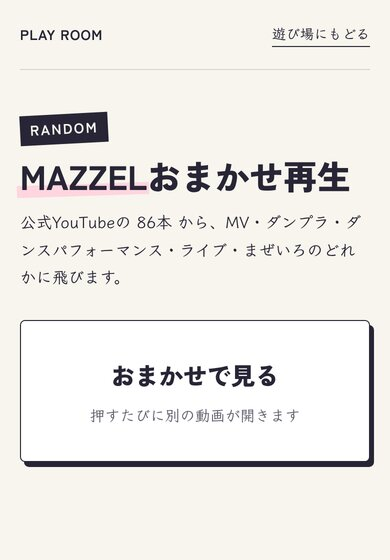
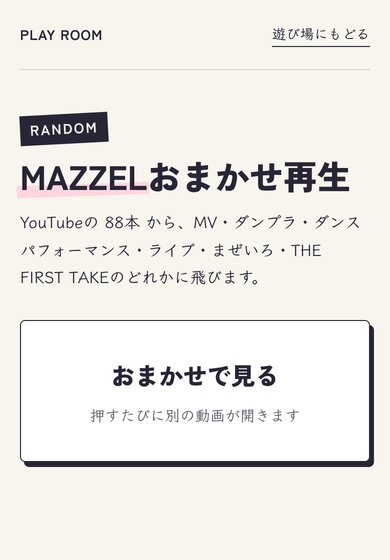
おまかせ再生: THE FIRST TAKEのOnly YouとGet Up And Danceを追加
Claude-Session: https://claude.ai/code/session_01Tkh1uTptcX9yYh5KQbX8tZ

Changed region(s): [[0.0615, 0.3643, 0.9231, 0.4554], [0.0308, 0.4857, 0.6462, 0.5161]]

diff --git a/mazzel/index.html b/mazzel/index.html
@@ -4,11 +4,11 @@
 <meta charset="utf-8">
 <meta name="viewport" content="width=device-width, initial-scale=1">
 <title>MAZZELおまかせ再生｜PLAY ROOM</title>
-<meta name="description" content="押すたびにMAZZELのMV・ダンプラ・ダンスパフォーマンス・ライブ・まぜいろ映像のどれかへ。PLAY ROOMのおまかせ再生。">
+<meta name="description" content="押すたびにMAZZELのMV・ダンプラ・ダンスパフォーマンス・ライブ・まぜいろ・THE FIRST TAKE映像のどれかへ。PLAY ROOMのおまかせ再生。">
 <meta property="og:type" content="website">
 <meta property="og:site_name" content="PLAY ROOM">
 <meta property="og:title" content="MAZZELおまかせ再生｜PLAY ROOM">
-<meta property="og:description" content="押すたびにMAZZELのMV・ダンプラ・ダンスパフォーマンス・ライブ・まぜいろ映像のどれかへ。">
+<meta property="og:description" content="押すたびにMAZZELのMV・ダンプラ・ダンスパフォーマンス・ライブ・まぜいろ・THE FIRST TAKE映像のどれかへ。">
 <meta property="og:url" content="https://playroom-lab.github.io/play-room/mazzel/">
 <meta name="twitter:card" content="summary">
 <meta name="robots" content="noindex">
@@ -56,13 +56,13 @@ padding:34px 24px;text-align:center;transition:transform .18s ease,box-shadow .1
 <nav class="nav"><span class="brand">PLAY ROOM</span><a class="back" href="../">遊び場にもどる</a></nav>
 <p class="label">RANDOM</p>
 <h1><span>MAZZEL</span>おまかせ再生</h1>
-<p class="note">公式YouTubeの <span id="count"></span> から、MV・ダンプラ・ダンスパフォーマンス・ライブ・まぜいろのどれかに飛びます。</p>
+<p class="note">YouTubeの <span id="count"></span> から、MV・ダンプラ・ダンスパフォーマンス・ライブ・まぜいろ・THE FIRST TAKEのどれかに飛びます。</p>
 <a class="go" id="go" href="https://www.youtube.com/@MAZZEL_official" target="_blank" rel="noopener">
 <strong>おまかせで見る</strong><small>押すたびに別の動画が開きます</small></a>
 </div>
 <script>
 {
-const V=[["Touch", "DN5JpXHDrLk", "MV", "Music Video"], ["So Strawberry", "76lNhpUKrEc", "MV", "Music Video"], ["Get Up And Dance", "Nw3eh9LurOM", "MV", "Music Video"], ["BANQUET BANG", "KmWhrWESKPU", "MV", "Music Video"], ["Only You", "pVLkSsnde9U", "MV", "Music Video"], ["DANGER", "AUhNm_ZR0L0", "MV", "Music Video"], ["King Kila Game", "jUlAbq1lfdo", "MV", "Music Video"], ["J.O.K.E.R.", "HLTMBZ6bZTA", "MV", "Music Video"], ["MAZQUERADE", "Q5LtRzAYJ_c", "MV", "Music Video"], ["Seaside Story", "rooVEy0Qo-0", "MV", "Music Video"], ["Counterattack", "gmTaYQlWn_I", "MV", "Music Video"], ["ICE feat. REIKO", "MgyCerb44lI", "MV", "Music Video"], ["Parade", "SuLNr2WlOK4", "MV", "Music Video"], ["Waterfall", "ectqcx3hnTI", "MV", "Music Video"], ["Carnival", "lIYPx6fTf8I", "MV", "Music Video"], ["Vivid", "oT_f2l3RScU", "MV", "Music Video"], ["MISSION", "LV2YZetiyHE", "MV", "Music Video"], ["Touch", "jDkc1MzHYG4", "ダンプラ", "Dance Practice"], ["So Strawberry", "s5N3o7KdnxA", "ダンプラ", "Dance Practice"], ["So Strawberry", "hNhGDMnfuR8", "ダンプラ", "Dance Performance Video"], ["The Voice", "IrGzenqeMxo", "ダンプラ", "Dance Performance Video"], ["Get Up And Dance", "ZUyKgkmdqa4", "ダンプラ", "Dance Practice"], ["BANQUET BANG", "lDyaplEIaHQ", "ダンプラ", "Dance Practice"], ["Only You", "dx4XsqUGm10", "ダンプラ", "Dance Practice"], ["Only You", "C8fRi3byOww", "ダンプラ", "Dance Performance"], ["DANGER", "yHhJsqtVGKg", "ダンプラ", "Dance Practice"], ["I'm yours, You're mine", "sFEkSY_dyMY", "ダンプラ", "Performance Video"], ["HERO SUIT", "UMknX5ZBoMM", "ダンプラ", "Performance Video"], ["to me", "6Ysau95qWyI", "ダンプラ", "Performance Video"], ["King Kila Game", "CHUgRqXSFqE", "ダンプラ", "Dance Practice"], ["J.O.K.E.R.", "Q3AzrhpWLZM", "ダンプラ", "Dance Practice"], ["MAZQUERADE", "QQGPnuKOQkE", "ダンプラ", "Dance Practice Moving ver."], ["MAZQUERADE", "icF7arAE9OQ", "ダンプラ", "Dance Practice Fix ver."], ["K&K", "g4UNun1zGyw", "ダンプラ", "Dance Practice"], ["Seaside Story", "S3C5ZedUAo4", "ダンプラ", "Dance Performance"], ["Counterattack", "uXI9uYWq8oc", "ダンプラ", "Dance Practice"], ["ICE feat. REIKO", "j5vpd2Y50No", "ダンプラ", "Dance Performance"], ["Parade", "d-fseqkcFh4", "ダンプラ", "Dance Practice Fix ver."], ["Parade", "Pmyrbbi2108", "ダンプラ", "Dance Practice Moving ver."], ["Waterfall", "YavEcqFbacs", "ダンプラ", "Dance Practice Fix ver."], ["Waterfall", "yR7vMuQwhWE", "ダンプラ", "Dance Practice Moving ver."], ["Fire", "6PAEczbmt2M", "ダンプラ", "Dance Performance Video"], ["Fire", "dlSb062mkVU", "ダンプラ", "Dance Performance Video Fix ver."], ["Carnival", "V8eF9VN2KUU", "ダンプラ", "Dance Practice Moving ver."], ["Carnival", "DIa_urittU8", "ダンプラ", "Dance Practice Fix ver."], ["Carnival", "Yj6LKQwY9ms", "ダンプラ", "Dance Performance"], ["LIGHTNING", "bAhRrmpQFHM", "ダンプラ", "Choreography Video Moving ver."], ["LIGHTNING", "PQeybPFZkXE", "ダンプラ", "Choreography Video Fix ver."], ["LIGHTNING", "8sQXnlMYzI4", "ダンプラ", "Dance Performance Video"], ["Vivid", "WloaFZjKJ7w", "ダンプラ", "Dance Practice Moving ver."], ["Vivid", "eEC0Ru3H8bo", "ダンプラ", "Dance Practice Fix ver."], ["Vivid", "wB0UjJjAp2U", "ダンプラ", "Dance Performance"], ["MISSION", "QtGxrnS5XBU", "ダンプラ", "Dance Practice Moving ver."], ["MISSION", "_VBbdqWF9Gc", "ダンプラ", "Dance Practice Fix ver."], ["So Strawberry", "B0-OaM9fmOs", "ライブ", "1st Arena Tour 2026"], ["Trap", "D-6zWGgatX8", "ライブ", "D.U.N.K. Showcase 2026"], ["J.O.K.E.R.", "Xay_gUI-Quw", "ライブ", "BMSG FES'25"], ["Holiday", "cMsKEJyR-xk", "ライブ", "2nd One Man Tour 2025"], ["Fantasy", "yVmZvKrL00w", "ライブ", "2nd One Man Tour 2025"], ["King Kila Game", "OYWifAyndsE", "ライブ", "2nd One Man Tour 2025"], ["DANGER", "LsG4PZe7fBQ", "ライブ", "2nd One Man Tour 2025"], ["Only You", "Y7pBD-U6-Pc", "ライブ", "Special Live Performance"], ["Vivid", "UYEmJFV0Urc", "ライブ", "VIVA LA ROCK 2025"], ["MISSION", "fNCfV6t8qL8", "ライブ", "One Man Tour 2024"], ["Parade", "eSc2iIH-wVU", "ライブ", "One Man Tour 2024"], ["Get Down", "tO0iiinmrTg", "ライブ", "One Man Tour 2024"], ["K&K", "sFTrDl-a7LQ", "ライブ", "One Man Tour 2024"], ["ICE", "rPCVKK4PpQ0", "ライブ", "One Man Tour 2024"], ["Waterfall", "hldEiAn8Xk4", "ライブ", "One Man Tour 2024"], ["Seaside Story", "0GAKiobewjI", "ライブ", "One Man Tour 2024"], ["Counterattack", "qIZJraMmF3Q", "ライブ", "BMSG FES'24"], ["Fire", "9EOjctmVWYs", "ライブ", "D.U.N.K. Showcase 京セラドーム大阪"], ["Holiday", "9G6h1tK8cuY", "ライブ", "SHOWCASE \"Carnival\""], ["Get Down", "bh4yNRRD6YU", "ライブ", "1st Fan Meeting"], ["CAME TO DANCE", "bGpM_S1KWug", "ライブ", "1st Fan Meeting"], ["Carnival", "XFNqvCJ_FJ8", "ライブ", "BMSG FES'23"], ["Vivid", "bFjEO_otDq8", "ライブ", "DEBUT SHOWCASE \"Vivid\""], ["Start of Something New (Cover)", "L0SUkz7p3mQ", "まぜいろ", "HAYATO"], ["虹 (Cover)", "BQh7Y6z_r08", "まぜいろ", "EIKI"], ["First Love (Cover)", "jB_Wxgd9p6c", "まぜいろ", "KAIRYU"], ["Fallin", "AKVUTWqNG0c", "まぜいろ", "TAKUTO"], ["SEITO × TSUKKI Collaboration", "aYoS5mxtMfk", "まぜいろ", "SEITO"], ["NAOYA filmed by 蜷川実花", "d3AVCaCZKys", "まぜいろ", "NAOYA"], ["20 years", "SUmOzSGdbCc", "まぜいろ", "RYUKI"], ["Nameless MythS (MAZZEL × STARGLOW)", "nn2V3mptPLg", "MV", "Music Video"], ["IPPA (前川一派)", "9tkw9U8JKa0", "MV", "Music Video"]];
+const V=[["Touch", "DN5JpXHDrLk", "MV", "Music Video"], ["So Strawberry", "76lNhpUKrEc", "MV", "Music Video"], ["Get Up And Dance", "Nw3eh9LurOM", "MV", "Music Video"], ["BANQUET BANG", "KmWhrWESKPU", "MV", "Music Video"], ["Only You", "pVLkSsnde9U", "MV", "Music Video"], ["DANGER", "AUhNm_ZR0L0", "MV", "Music Video"], ["King Kila Game", "jUlAbq1lfdo", "MV", "Music Video"], ["J.O.K.E.R.", "HLTMBZ6bZTA", "MV", "Music Video"], ["MAZQUERADE", "Q5LtRzAYJ_c", "MV", "Music Video"], ["Seaside Story", "rooVEy0Qo-0", "MV", "Music Video"], ["Counterattack", "gmTaYQlWn_I", "MV", "Music Video"], ["ICE feat. REIKO", "MgyCerb44lI", "MV", "Music Video"], ["Parade", "SuLNr2WlOK4", "MV", "Music Video"], ["Waterfall", "ectqcx3hnTI", "MV", "Music Video"], ["Carnival", "lIYPx6fTf8I", "MV", "Music Video"], ["Vivid", "oT_f2l3RScU", "MV", "Music Video"], ["MISSION", "LV2YZetiyHE", "MV", "Music Video"], ["Touch", "jDkc1MzHYG4", "ダンプラ", "Dance Practice"], ["So Strawberry", "s5N3o7KdnxA", "ダンプラ", "Dance Practice"], ["So Strawberry", "hNhGDMnfuR8", "ダンプラ", "Dance Performance Video"], ["The Voice", "IrGzenqeMxo", "ダンプラ", "Dance Performance Video"], ["Get Up And Dance", "ZUyKgkmdqa4", "ダンプラ", "Dance Practice"], ["BANQUET BANG", "lDyaplEIaHQ", "ダンプラ", "Dance Practice"], ["Only You", "dx4XsqUGm10", "ダンプラ", "Dance Practice"], ["Only You", "C8fRi3byOww", "ダンプラ", "Dance Performance"], ["DANGER", "yHhJsqtVGKg", "ダンプラ", "Dance Practice"], ["I'm yours, You're mine", "sFEkSY_dyMY", "ダンプラ", "Performance Video"], ["HERO SUIT", "UMknX5ZBoMM", "ダンプラ", "Performance Video"], ["to me", "6Ysau95qWyI", "ダンプラ", "Performance Video"], ["King Kila Game", "CHUgRqXSFqE", "ダンプラ", "Dance Practice"], ["J.O.K.E.R.", "Q3AzrhpWLZM", "ダンプラ", "Dance Practice"], ["MAZQUERADE", "QQGPnuKOQkE", "ダンプラ", "Dance Practice Moving ver."], ["MAZQUERADE", "icF7arAE9OQ", "ダンプラ", "Dance Practice Fix ver."], ["K&K", "g4UNun1zGyw", "ダンプラ", "Dance Practice"], ["Seaside Story", "S3C5ZedUAo4", "ダンプラ", "Dance Performance"], ["Counterattack", "uXI9uYWq8oc", "ダンプラ", "Dance Practice"], ["ICE feat. REIKO", "j5vpd2Y50No", "ダンプラ", "Dance Performance"], ["Parade", "d-fseqkcFh4", "ダンプラ", "Dance Practice Fix ver."], ["Parade", "Pmyrbbi2108", "ダンプラ", "Dance Practice Moving ver."], ["Waterfall", "YavEcqFbacs", "ダンプラ", "Dance Practice Fix ver."], ["Waterfall", "yR7vMuQwhWE", "ダンプラ", "Dance Practice Moving ver."], ["Fire", "6PAEczbmt2M", "ダンプラ", "Dance Performance Video"], ["Fire", "dlSb062mkVU", "ダンプラ", "Dance Performance Video Fix ver."], ["Carnival", "V8eF9VN2KUU", "ダンプラ", "Dance Practice Moving ver."], ["Carnival", "DIa_urittU8", "ダンプラ", "Dance Practice Fix ver."], ["Carnival", "Yj6LKQwY9ms", "ダンプラ", "Dance Performance"], ["LIGHTNING", "bAhRrmpQFHM", "ダンプラ", "Choreography Video Moving ver."], ["LIGHTNING", "PQeybPFZkXE", "ダンプラ", "Choreography Video Fix ver."], ["LIGHTNING", "8sQXnlMYzI4", "ダンプラ", "Dance Performance Video"], ["Vivid", "WloaFZjKJ7w", "ダンプラ", "Dance Practice Moving ver."], ["Vivid", "eEC0Ru3H8bo", "ダンプラ", "Dance Practice Fix ver."], ["Vivid", "wB0UjJjAp2U", "ダンプラ", "Dance Performance"], ["MISSION", "QtGxrnS5XBU", "ダンプラ", "Dance Practice Moving ver."], ["MISSION", "_VBbdqWF9Gc", "ダンプラ", "Dance Practice Fix ver."], ["So Strawberry", "B0-OaM9fmOs", "ライブ", "1st Arena Tour 2026"], ["Trap", "D-6zWGgatX8", "ライブ", "D.U.N.K. Showcase 2026"], ["J.O.K.E.R.", "Xay_gUI-Quw", "ライブ", "BMSG FES'25"], ["Holiday", "cMsKEJyR-xk", "ライブ", "2nd One Man Tour 2025"], ["Fantasy", "yVmZvKrL00w", "ライブ", "2nd One Man Tour 2025"], ["King Kila Game", "OYWifAyndsE", "ライブ", "2nd One Man Tour 2025"], ["DANGER", "LsG4PZe7fBQ", "ライブ", "2nd One Man Tour 2025"], ["Only You", "Y7pBD-U6-Pc", "ライブ", "Special Live Performance"], ["Vivid", "UYEmJFV0Urc", "ライブ", "VIVA LA ROCK 2025"], ["MISSION", "fNCfV6t8qL8", "ライブ", "One Man Tour 2024"], ["Parade", "eSc2iIH-wVU", "ライブ", "One Man Tour 2024"], ["Get Down", "tO0iiinmrTg", "ライブ", "One Man Tour 2024"], ["K&K", "sFTrDl-a7LQ", "ライブ", "One Man Tour 2024"], ["ICE", "rPCVKK4PpQ0", "ライブ", "One Man Tour 2024"], ["Waterfall", "hldEiAn8Xk4", "ライブ", "One Man Tour 2024"], ["Seaside Story", "0GAKiobewjI", "ライブ", "One Man Tour 2024"], ["Counterattack", "qIZJraMmF3Q", "ライブ", "BMSG FES'24"], ["Fire", "9EOjctmVWYs", "ライブ", "D.U.N.K. Showcase 京セラドーム大阪"], ["Holiday", "9G6h1tK8cuY", "ライブ", "SHOWCASE \"Carnival\""], ["Get Down", "bh4yNRRD6YU", "ライブ", "1st Fan Meeting"], ["CAME TO DANCE", "bGpM_S1KWug", "ライブ", "1st Fan Meeting"], ["Carnival", "XFNqvCJ_FJ8", "ライブ", "BMSG FES'23"], ["Vivid", "bFjEO_otDq8", "ライブ", "DEBUT SHOWCASE \"Vivid\""], ["Start of Something New (Cover)", "L0SUkz7p3mQ", "まぜいろ", "HAYATO"], ["虹 (Cover)", "BQh7Y6z_r08", "まぜいろ", "EIKI"], ["First Love (Cover)", "jB_Wxgd9p6c", "まぜいろ", "KAIRYU"], ["Fallin", "AKVUTWqNG0c", "まぜいろ", "TAKUTO"], ["SEITO × TSUKKI Collaboration", "aYoS5mxtMfk", "まぜいろ", "SEITO"], ["NAOYA filmed by 蜷川実花", "d3AVCaCZKys", "まぜいろ", "NAOYA"], ["20 years", "SUmOzSGdbCc", "まぜいろ", "RYUKI"], ["Nameless MythS (MAZZEL × STARGLOW)", "nn2V3mptPLg", "MV", "Music Video"], ["IPPA (前川一派)", "9tkw9U8JKa0", "MV", "Music Video"], ["Only You", "epdz8BeOR7I", "THE FIRST TAKE", "THE FIRST TAKE"], ["Get Up And Dance", "zGTqYHKPn3s", "THE FIRST TAKE", "THE FIRST TAKE"]];
 const a=document.getElementById('go');
 document.getElementById('count').textContent=V.length+'本';
 let last='';

diff --git a/mazzel-random/index.html b/mazzel-random/index.html
@@ -10,7 +10,7 @@
 <meta http-equiv="Cache-Control" content="no-store">
 <title>MAZZELおまかせ再生｜PLAY ROOM</title>
 <script>
-(()=>{const V=[["Touch", "DN5JpXHDrLk", "MV", "Music Video"], ["So Strawberry", "76lNhpUKrEc", "MV", "Music Video"], ["Get Up And Dance", "Nw3eh9LurOM", "MV", "Music Video"], ["BANQUET BANG", "KmWhrWESKPU", "MV", "Music Video"], ["Only You", "pVLkSsnde9U", "MV", "Music Video"], ["DANGER", "AUhNm_ZR0L0", "MV", "Music Video"], ["King Kila Game", "jUlAbq1lfdo", "MV", "Music Video"], ["J.O.K.E.R.", "HLTMBZ6bZTA", "MV", "Music Video"], ["MAZQUERADE", "Q5LtRzAYJ_c", "MV", "Music Video"], ["Seaside Story", "rooVEy0Qo-0", "MV", "Music Video"], ["Counterattack", "gmTaYQlWn_I", "MV", "Music Video"], ["ICE feat. REIKO", "MgyCerb44lI", "MV", "Music Video"], ["Parade", "SuLNr2WlOK4", "MV", "Music Video"], ["Waterfall", "ectqcx3hnTI", "MV", "Music Video"], ["Carnival", "lIYPx6fTf8I", "MV", "Music Video"], ["Vivid", "oT_f2l3RScU", "MV", "Music Video"], ["MISSION", "LV2YZetiyHE", "MV", "Music Video"], ["Touch", "jDkc1MzHYG4", "ダンプラ", "Dance Practice"], ["So Strawberry", "s5N3o7KdnxA", "ダンプラ", "Dance Practice"], ["So Strawberry", "hNhGDMnfuR8", "ダンプラ", "Dance Performance Video"], ["The Voice", "IrGzenqeMxo", "ダンプラ", "Dance Performance Video"], ["Get Up And Dance", "ZUyKgkmdqa4", "ダンプラ", "Dance Practice"], ["BANQUET BANG", "lDyaplEIaHQ", "ダンプラ", "Dance Practice"], ["Only You", "dx4XsqUGm10", "ダンプラ", "Dance Practice"], ["Only You", "C8fRi3byOww", "ダンプラ", "Dance Performance"], ["DANGER", "yHhJsqtVGKg", "ダンプラ", "Dance Practice"], ["I'm yours, You're mine", "sFEkSY_dyMY", "ダンプラ", "Performance Video"], ["HERO SUIT", "UMknX5ZBoMM", "ダンプラ", "Performance Video"], ["to me", "6Ysau95qWyI", "ダンプラ", "Performance Video"], ["King Kila Game", "CHUgRqXSFqE", "ダンプラ", "Dance Practice"], ["J.O.K.E.R.", "Q3AzrhpWLZM", "ダンプラ", "Dance Practice"], ["MAZQUERADE", "QQGPnuKOQkE", "ダンプラ", "Dance Practice Moving ver."], ["MAZQUERADE", "icF7arAE9OQ", "ダンプラ", "Dance Practice Fix ver."], ["K&K", "g4UNun1zGyw", "ダンプラ", "Dance Practice"], ["Seaside Story", "S3C5ZedUAo4", "ダンプラ", "Dance Performance"], ["Counterattack", "uXI9uYWq8oc", "ダンプラ", "Dance Practice"], ["ICE feat. REIKO", "j5vpd2Y50No", "ダンプラ", "Dance Performance"], ["Parade", "d-fseqkcFh4", "ダンプラ", "Dance Practice Fix ver."], ["Parade", "Pmyrbbi2108", "ダンプラ", "Dance Practice Moving ver."], ["Waterfall", "YavEcqFbacs", "ダンプラ", "Dance Practice Fix ver."], ["Waterfall", "yR7vMuQwhWE", "ダンプラ", "Dance Practice Moving ver."], ["Fire", "6PAEczbmt2M", "ダンプラ", "Dance Performance Video"], ["Fire", "dlSb062mkVU", "ダンプラ", "Dance Performance Video Fix ver."], ["Carnival", "V8eF9VN2KUU", "ダンプラ", "Dance Practice Moving ver."], ["Carnival", "DIa_urittU8", "ダンプラ", "Dance Practice Fix ver."], ["Carnival", "Yj6LKQwY9ms", "ダンプラ", "Dance Performance"], ["LIGHTNING", "bAhRrmpQFHM", "ダンプラ", "Choreography Video Moving ver."], ["LIGHTNING", "PQeybPFZkXE", "ダンプラ", "Choreography Video Fix ver."], ["LIGHTNING", "8sQXnlMYzI4", "ダンプラ", "Dance Performance Video"], ["Vivid", "WloaFZjKJ7w", "ダンプラ", "Dance Practice Moving ver."], ["Vivid", "eEC0Ru3H8bo", "ダンプラ", "Dance Practice Fix ver."], ["Vivid", "wB0UjJjAp2U", "ダンプラ", "Dance Performance"], ["MISSION", "QtGxrnS5XBU", "ダンプラ", "Dance Practice Moving ver."], ["MISSION", "_VBbdqWF9Gc", "ダンプラ", "Dance Practice Fix ver."], ["So Strawberry", "B0-OaM9fmOs", "ライブ", "1st Arena Tour 2026"], ["Trap", "D-6zWGgatX8", "ライブ", "D.U.N.K. Showcase 2026"], ["J.O.K.E.R.", "Xay_gUI-Quw", "ライブ", "BMSG FES'25"], ["Holiday", "cMsKEJyR-xk", "ライブ", "2nd One Man Tour 2025"], ["Fantasy", "yVmZvKrL00w", "ライブ", "2nd One Man Tour 2025"], ["King Kila Game", "OYWifAyndsE", "ライブ", "2nd One Man Tour 2025"], ["DANGER", "LsG4PZe7fBQ", "ライブ", "2nd One Man Tour 2025"], ["Only You", "Y7pBD-U6-Pc", "ライブ", "Special Live Performance"], ["Vivid", "UYEmJFV0Urc", "ライブ", "VIVA LA ROCK 2025"], ["MISSION", "fNCfV6t8qL8", "ライブ", "One Man Tour 2024"], ["Parade", "eSc2iIH-wVU", "ライブ", "One Man Tour 2024"], ["Get Down", "tO0iiinmrTg", "ライブ", "One Man Tour 2024"], ["K&K", "sFTrDl-a7LQ", "ライブ", "One Man Tour 2024"], ["ICE", "rPCVKK4PpQ0", "ライブ", "One Man Tour 2024"], ["Waterfall", "hldEiAn8Xk4", "ライブ", "One Man Tour 2024"], ["Seaside Story", "0GAKiobewjI", "ライブ", "One Man Tour 2024"], ["Counterattack", "qIZJraMmF3Q", "ライブ", "BMSG FES'24"], ["Fire", "9EOjctmVWYs", "ライブ", "D.U.N.K. Showcase 京セラドーム大阪"], ["Holiday", "9G6h1tK8cuY", "ライブ", "SHOWCASE \"Carnival\""], ["Get Down", "bh4yNRRD6YU", "ライブ", "1st Fan Meeting"], ["CAME TO DANCE", "bGpM_S1KWug", "ライブ", "1st Fan Meeting"], ["Carnival", "XFNqvCJ_FJ8", "ライブ", "BMSG FES'23"], ["Vivid", "bFjEO_otDq8", "ライブ", "DEBUT SHOWCASE \"Vivid\""], ["Start of Something New (Cover)", "L0SUkz7p3mQ", "まぜいろ", "HAYATO"], ["虹 (Cover)", "BQh7Y6z_r08", "まぜいろ", "EIKI"], ["First Love (Cover)", "jB_Wxgd9p6c", "まぜいろ", "KAIRYU"], ["Fallin", "AKVUTWqNG0c", "まぜいろ", "TAKUTO"], ["SEITO × TSUKKI Collaboration", "aYoS5mxtMfk", "まぜいろ", "SEITO"], ["NAOYA filmed by 蜷川実花", "d3AVCaCZKys", "まぜいろ", "NAOYA"], ["20 years", "SUmOzSGdbCc", "まぜいろ", "RYUKI"], ["Nameless MythS (MAZZEL × STARGLOW)", "nn2V3mptPLg", "MV", "Music Video"], ["IPPA (前川一派)", "9tkw9U8JKa0", "MV", "Music Video"]];
+(()=>{const V=[["Touch", "DN5JpXHDrLk", "MV", "Music Video"], ["So Strawberry", "76lNhpUKrEc", "MV", "Music Video"], ["Get Up And Dance", "Nw3eh9LurOM", "MV", "Music Video"], ["BANQUET BANG", "KmWhrWESKPU", "MV", "Music Video"], ["Only You", "pVLkSsnde9U", "MV", "Music Video"], ["DANGER", "AUhNm_ZR0L0", "MV", "Music Video"], ["King Kila Game", "jUlAbq1lfdo", "MV", "Music Video"], ["J.O.K.E.R.", "HLTMBZ6bZTA", "MV", "Music Video"], ["MAZQUERADE", "Q5LtRzAYJ_c", "MV", "Music Video"], ["Seaside Story", "rooVEy0Qo-0", "MV", "Music Video"], ["Counterattack", "gmTaYQlWn_I", "MV", "Music Video"], ["ICE feat. REIKO", "MgyCerb44lI", "MV", "Music Video"], ["Parade", "SuLNr2WlOK4", "MV", "Music Video"], ["Waterfall", "ectqcx3hnTI", "MV", "Music Video"], ["Carnival", "lIYPx6fTf8I", "MV", "Music Video"], ["Vivid", "oT_f2l3RScU", "MV", "Music Video"], ["MISSION", "LV2YZetiyHE", "MV", "Music Video"], ["Touch", "jDkc1MzHYG4", "ダンプラ", "Dance Practice"], ["So Strawberry", "s5N3o7KdnxA", "ダンプラ", "Dance Practice"], ["So Strawberry", "hNhGDMnfuR8", "ダンプラ", "Dance Performance Video"], ["The Voice", "IrGzenqeMxo", "ダンプラ", "Dance Performance Video"], ["Get Up And Dance", "ZUyKgkmdqa4", "ダンプラ", "Dance Practice"], ["BANQUET BANG", "lDyaplEIaHQ", "ダンプラ", "Dance Practice"], ["Only You", "dx4XsqUGm10", "ダンプラ", "Dance Practice"], ["Only You", "C8fRi3byOww", "ダンプラ", "Dance Performance"], ["DANGER", "yHhJsqtVGKg", "ダンプラ", "Dance Practice"], ["I'm yours, You're mine", "sFEkSY_dyMY", "ダンプラ", "Performance Video"], ["HERO SUIT", "UMknX5ZBoMM", "ダンプラ", "Performance Video"], ["to me", "6Ysau95qWyI", "ダンプラ", "Performance Video"], ["King Kila Game", "CHUgRqXSFqE", "ダンプラ", "Dance Practice"], ["J.O.K.E.R.", "Q3AzrhpWLZM", "ダンプラ", "Dance Practice"], ["MAZQUERADE", "QQGPnuKOQkE", "ダンプラ", "Dance Practice Moving ver."], ["MAZQUERADE", "icF7arAE9OQ", "ダンプラ", "Dance Practice Fix ver."], ["K&K", "g4UNun1zGyw", "ダンプラ", "Dance Practice"], ["Seaside Story", "S3C5ZedUAo4", "ダンプラ", "Dance Performance"], ["Counterattack", "uXI9uYWq8oc", "ダンプラ", "Dance Practice"], ["ICE feat. REIKO", "j5vpd2Y50No", "ダンプラ", "Dance Performance"], ["Parade", "d-fseqkcFh4", "ダンプラ", "Dance Practice Fix ver."], ["Parade", "Pmyrbbi2108", "ダンプラ", "Dance Practice Moving ver."], ["Waterfall", "YavEcqFbacs", "ダンプラ", "Dance Practice Fix ver."], ["Waterfall", "yR7vMuQwhWE", "ダンプラ", "Dance Practice Moving ver."], ["Fire", "6PAEczbmt2M", "ダンプラ", "Dance Performance Video"], ["Fire", "dlSb062mkVU", "ダンプラ", "Dance Performance Video Fix ver."], ["Carnival", "V8eF9VN2KUU", "ダンプラ", "Dance Practice Moving ver."], ["Carnival", "DIa_urittU8", "ダンプラ", "Dance Practice Fix ver."], ["Carnival", "Yj6LKQwY9ms", "ダンプラ", "Dance Performance"], ["LIGHTNING", "bAhRrmpQFHM", "ダンプラ", "Choreography Video Moving ver."], ["LIGHTNING", "PQeybPFZkXE", "ダンプラ", "Choreography Video Fix ver."], ["LIGHTNING", "8sQXnlMYzI4", "ダンプラ", "Dance Performance Video"], ["Vivid", "WloaFZjKJ7w", "ダンプラ", "Dance Practice Moving ver."], ["Vivid", "eEC0Ru3H8bo", "ダンプラ", "Dance Practice Fix ver."], ["Vivid", "wB0UjJjAp2U", "ダンプラ", "Dance Performance"], ["MISSION", "QtGxrnS5XBU", "ダンプラ", "Dance Practice Moving ver."], ["MISSION", "_VBbdqWF9Gc", "ダンプラ", "Dance Practice Fix ver."], ["So Strawberry", "B0-OaM9fmOs", "ライブ", "1st Arena Tour 2026"], ["Trap", "D-6zWGgatX8", "ライブ", "D.U.N.K. Showcase 2026"], ["J.O.K.E.R.", "Xay_gUI-Quw", "ライブ", "BMSG FES'25"], ["Holiday", "cMsKEJyR-xk", "ライブ", "2nd One Man Tour 2025"], ["Fantasy", "yVmZvKrL00w", "ライブ", "2nd One Man Tour 2025"], ["King Kila Game", "OYWifAyndsE", "ライブ", "2nd One Man Tour 2025"], ["DANGER", "LsG4PZe7fBQ", "ライブ", "2nd One Man Tour 2025"], ["Only You", "Y7pBD-U6-Pc", "ライブ", "Special Live Performance"], ["Vivid", "UYEmJFV0Urc", "ライブ", "VIVA LA ROCK 2025"], ["MISSION", "fNCfV6t8qL8", "ライブ", "One Man Tour 2024"], ["Parade", "eSc2iIH-wVU", "ライブ", "One Man Tour 2024"], ["Get Down", "tO0iiinmrTg", "ライブ", "One Man Tour 2024"], ["K&K", "sFTrDl-a7LQ", "ライブ", "One Man Tour 2024"], ["ICE", "rPCVKK4PpQ0", "ライブ", "One Man Tour 2024"], ["Waterfall", "hldEiAn8Xk4", "ライブ", "One Man Tour 2024"], ["Seaside Story", "0GAKiobewjI", "ライブ", "One Man Tour 2024"], ["Counterattack", "qIZJraMmF3Q", "ライブ", "BMSG FES'24"], ["Fire", "9EOjctmVWYs", "ライブ", "D.U.N.K. Showcase 京セラドーム大阪"], ["Holiday", "9G6h1tK8cuY", "ライブ", "SHOWCASE \"Carnival\""], ["Get Down", "bh4yNRRD6YU", "ライブ", "1st Fan Meeting"], ["CAME TO DANCE", "bGpM_S1KWug", "ライブ", "1st Fan Meeting"], ["Carnival", "XFNqvCJ_FJ8", "ライブ", "BMSG FES'23"], ["Vivid", "bFjEO_otDq8", "ライブ", "DEBUT SHOWCASE \"Vivid\""], ["Start of Something New (Cover)", "L0SUkz7p3mQ", "まぜいろ", "HAYATO"], ["虹 (Cover)", "BQh7Y6z_r08", "まぜいろ", "EIKI"], ["First Love (Cover)", "jB_Wxgd9p6c", "まぜいろ", "KAIRYU"], ["Fallin", "AKVUTWqNG0c", "まぜいろ", "TAKUTO"], ["SEITO × TSUKKI Collaboration", "aYoS5mxtMfk", "まぜいろ", "SEITO"], ["NAOYA filmed by 蜷川実花", "d3AVCaCZKys", "まぜいろ", "NAOYA"], ["20 years", "SUmOzSGdbCc", "まぜいろ", "RYUKI"], ["Nameless MythS (MAZZEL × STARGLOW)", "nn2V3mptPLg", "MV", "Music Video"], ["IPPA (前川一派)", "9tkw9U8JKa0", "MV", "Music Video"], ["Only You", "epdz8BeOR7I", "THE FIRST TAKE", "THE FIRST TAKE"], ["Get Up And Dance", "zGTqYHKPn3s", "THE FIRST TAKE", "THE FIRST TAKE"]];
 const K='mazzel-random-last';
 function go(){
   let last='';try{last=localStorage.getItem(K)||''}catch(e){}

diff --git a/index.html b/index.html
@@ -259,7 +259,7 @@
           <div class="tool-copy">
             <p class="eyebrow"><span class="number">09</span> RANDOM PLAY</p>
             <h2 id="mazzel-title">MAZZELおまかせ再生</h2>
-            <p class="tool-desc" id="mazzel-desc">押すたびに、MV・ダンプラ・ダンスパフォーマンス・ライブ・まぜいろのどれかへ。</p>
+            <p class="tool-desc" id="mazzel-desc">押すたびに、MV・ダンプラ・ダンスパフォーマンス・ライブ・まぜいろ・THE FIRST TAKEのどれかへ。</p>
             <span class="open">おまかせで見る</span>
           </div>
         </a>
